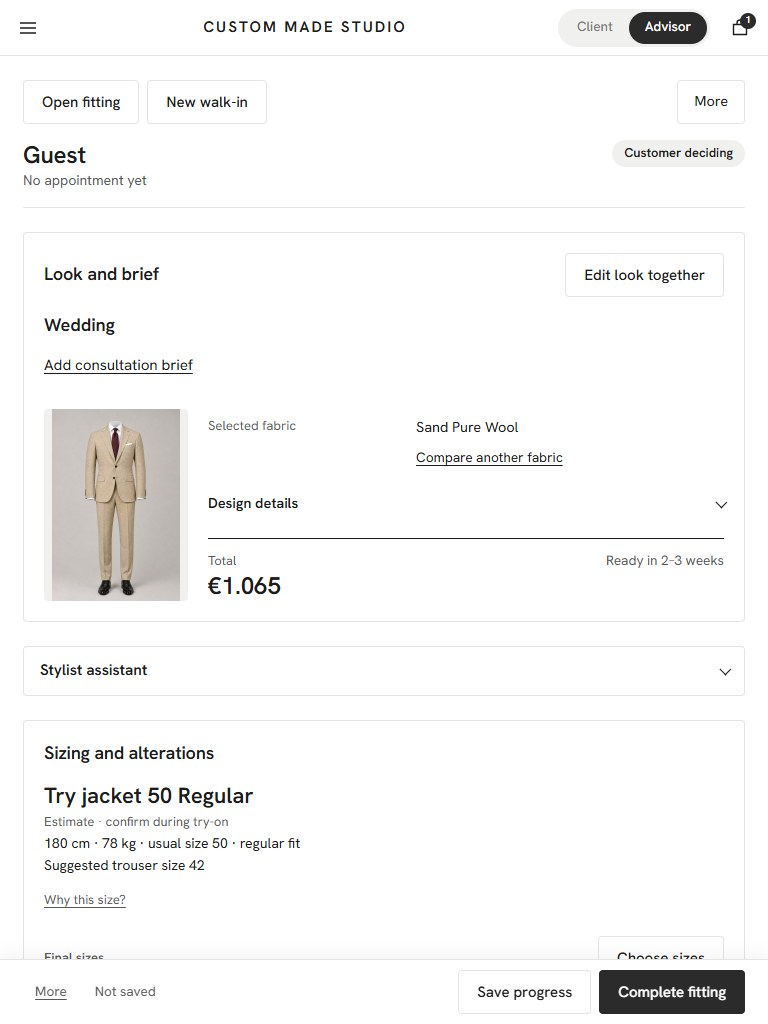
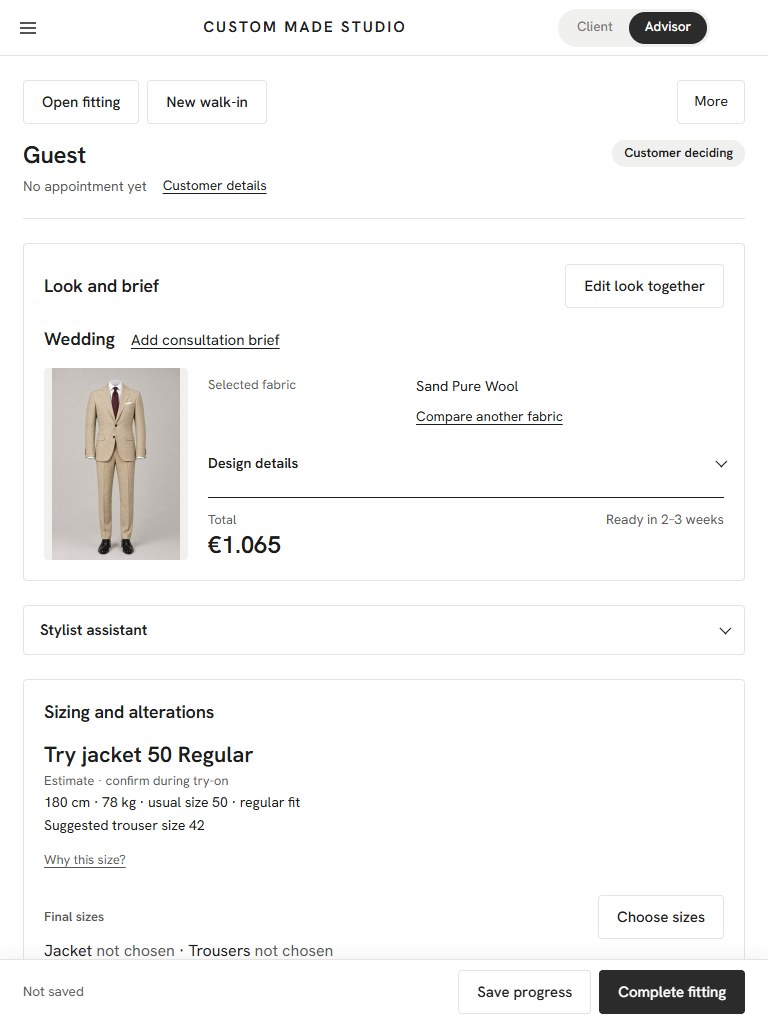
Advisor round 6: print keeps design specs and customer details, Customer details button, fabric panel open/close, single More menu with Email summary, tidier look card; 143 checks

diff --git a/js/app.js b/js/app.js
@@ -989,7 +989,8 @@
       ? '<div class="adv-brief" id="advBrief"><label for="advBriefInput">Consultation brief</label><textarea id="advBriefInput" rows="2" placeholder="What the customer wants, in their words"></textarea></div>'
       : (st.brief || st.reference
         ? '<div class="adv-brief" id="advBrief"><p class="adv-brief-text" id="advBriefText"></p><img id="advReference" hidden alt="Customer’s inspiration photo"></div>'
-        : '<button type="button" class="adv-link adv-noprint" id="advAddBrief">Add consultation brief</button>');
+        : '');
+    var briefBtn = (!advUi.briefEdit && !st.brief && !st.reference) ? '<button type="button" class="adv-link adv-noprint" id="advAddBrief">Add consultation brief</button>' : '';
     box.innerHTML =
       '<div class="adv-ws">' +
       /* one slim toolbar; the forms open only when asked for */
@@ -997,7 +998,7 @@
         '<div class="adv-bar-tools">' +
           '<button type="button" class="btn ghost" id="advLookupToggle" aria-expanded="' + (advUi.lookup ? 'true' : 'false') + '" aria-controls="openFitting">Open fitting</button>' +
           '<button type="button" class="btn ghost" id="advWalkToggle" aria-expanded="false" aria-controls="walkPanel">New walk-in</button>' +
-          '<details class="adv-more" id="advBarMore"><summary class="adv-quiet">More</summary><div class="adv-more-menu"><button type="button" class="adv-quiet" id="advFollowToggle" aria-expanded="false" aria-controls="followPanel"><span id="followCount">Follow-ups</span></button><button type="button" class="adv-quiet adv-mobile-only" id="advPrintTop">Print sheet</button><button type="button" class="adv-quiet adv-mobile-only" id="advCsvTop">Export log</button></div></details>' +
+          '<details class="adv-more" id="advBarMore"><summary class="adv-quiet">More</summary><div class="adv-more-menu"><button type="button" class="adv-quiet" id="advFollowToggle" aria-expanded="false" aria-controls="followPanel"><span id="followCount">Follow-ups</span></button><button type="button" class="adv-quiet" id="advPrint">Print sheet</button><button type="button" class="adv-quiet" id="advEmail">Email summary</button><button type="button" class="adv-quiet" id="advCsv">Export log</button></div></details>' +
         '</div>' +
         '<form id="openFitting" class="adv-open adv-panel"' + (advUi.lookup ? '' : ' hidden') + '><label for="lookupCode">Fitting code</label><input id="lookupCode" type="text" placeholder="CM-XXXXXX" autocomplete="off" autocapitalize="characters" spellcheck="false" maxlength="16"><button type="submit" class="btn">Open fitting</button></form>' +
         '<p id="lookupStatus" class="adv-bar-note" role="status"></p>' +
@@ -1010,24 +1011,25 @@
       '<div class="adv-print-only adv-print-head" id="advPrintHead"></div>' +
       /* the active fitting */
       '<header class="adv-head"><div class="adv-head-main"><h2 class="adv-name">' + escapeName(st.name || 'Guest') + '</h2>' +
-        '<p class="adv-meta"><span>' + escapeName(when) + '</span>' + (st.eventDate ? '<span>Event ' + escapeName(st.eventDate) + '</span>' : '') + (st.code ? '<span class="adv-code">' + st.code + '</span>' : '') + '</p></div>' +
+        '<p class="adv-meta"><span>' + escapeName(when) + '</span>' + (st.eventDate ? '<span>Event ' + escapeName(st.eventDate) + '</span>' : '') + (st.code ? '<span class="adv-code">' + st.code + '</span>' : '') + '<button type="button" class="adv-link adv-noprint" id="advOpenCust">Customer details</button></p></div>' +
         '<div class="adv-head-side"><span class="adv-dirty adv-noprint" id="advDirty" hidden>Unsaved changes</span><span class="adv-state ' + statusClass + '">' + status + '</span></div></header>' +
       '<div class="adv-grid">' +
         '<div class="adv-main">' +
           '<section class="adv-card" id="advLook" aria-labelledby="advLookH">' +
             '<div class="adv-card-head"><h3 id="advLookH">Look and brief</h3><button type="button" class="btn ghost adv-noprint" id="editConsultLook">Edit look together</button></div>' +
             '<div class="adv-look">' +
-              '<p class="adv-occasion">' + escapeName(activeLook().label) + '</p>' +
+              '<div class="adv-look-head"><p class="adv-occasion">' + escapeName(activeLook().label) + '</p>' + briefBtn + '</div>' +
               briefHtml +
               '<div class="adv-summary"><button type="button" class="adv-suit" id="advSuitBtn" aria-label="Enlarge the look photo"><img src="' + shot + '" alt="Selected look: ' + escapeName(c.name) + '"></button>' +
                 '<div class="adv-summary-body">' +
-                  advRows([['Selected fabric', escapeName(c.name) + '<button type="button" class="adv-link adv-noprint adv-compare-link" id="advCompareToggle" aria-expanded="' + (advUi.fabric ? 'true' : 'false') + '" aria-controls="advFabric">Compare another fabric</button>']]) +
-                  '<details class="adv-detail-rows" id="advLookRows"><summary>Design details</summary>' + advRows([dz ? ['Base look', escapeName(dz.name)] : null, ['Style', escapeName(styleText())], ex.length ? ['Extras', escapeName(ex.join(', '))] : null, st.consultBudget ? ['Budget', money(Number(st.consultBudget))] : null]) + '</details>' +
+                  advRows([['Selected fabric', escapeName(c.name) + '<button type="button" class="adv-link adv-noprint adv-compare-link" id="advCompareToggle" aria-expanded="' + (advUi.fabric ? 'true' : 'false') + '" aria-controls="advFabric">' + (advUi.fabric ? 'Hide fabric comparison' : 'Compare another fabric') + '</button>']]) +
+                  '<div class="adv-print-only adv-specs">' + advRows([['Occasion', escapeName(activeLook().label)], dz ? ['Base look', escapeName(dz.name)] : null, ['Style', escapeName(styleText())], ex.length ? ['Extras', escapeName(ex.join(', '))] : null, st.consultBudget ? ['Budget', money(Number(st.consultBudget))] : null]) + '</div>' +
+                  '<details class="adv-detail-rows adv-screen-only" id="advLookRows"><summary>Design details</summary>' + advRows([dz ? ['Base look', escapeName(dz.name)] : null, ['Style', escapeName(styleText())], ex.length ? ['Extras', escapeName(ex.join(', '))] : null, st.consultBudget ? ['Budget', money(Number(st.consultBudget))] : null]) + '</details>' +
                   '<div class="adv-total"><div><span class="adv-total-label">Total</span><b class="adv-total-value">' + money(total()) + '</b></div><span class="adv-delivery">Ready in 2–3 weeks</span></div>' +
                 '</div></div>' +
             '</div>' +
           '</section>' +
-          '<details class="adv-card adv-noprint" id="advFabric"><summary class="adv-fab-summary">Compare fabrics</summary><div class="adv-detail-body">' +
+          '<details class="adv-card adv-noprint" id="advFabric"><summary class="adv-fab-summary">Compare fabrics</summary><div class="adv-detail-body"><div class="adv-fab-head"><h3>Compare fabrics</h3><button type="button" class="btn ghost" id="advFabClose">Close</button></div>' +
             '<div class="adv-search-wrap"><label for="altSearch">Find another fabric</label><div class="alt-search"><input id="altSearch" type="search" role="combobox" aria-expanded="false" aria-controls="altResults" aria-autocomplete="list" placeholder="Type a colour, weave or name" autocomplete="off"><div class="alt-results" id="altResults" role="listbox" aria-label="Matching fabrics" hidden></div></div><div class="chips" id="altKeywords" aria-label="Keywords"></div></div>' +
             '<input type="hidden" id="altCloth">' +
             '<div id="clothPair" class="adv-pair" hidden>' +
@@ -1060,7 +1062,8 @@
               '<p class="adv-field-error" id="advAltError" role="alert"' + (errs.alts ? '' : ' hidden') + '>' + escapeName(errs.alts || '') + '</p>' +
               '<div class="adv-alt-head" aria-hidden="true"><span>Alteration</span><span>Requested</span><span>Agreed</span><span>Status</span></div><div class="adjs" id="advAdjs"></div></div>' +
             '<div class="adv-block"><label for="advNotes" class="adv-label">Workroom notes</label><textarea id="advNotes" placeholder="Shoulders, posture, anything for the workroom"></textarea><div class="adv-print-only" id="advNotesPrint"></div></div>' +
-            '<details class="adv-detail-rows adv-cust" id="advCust"><summary>Customer details</summary>' + custRows + '<div class="adv-contact-block" id="advContact"><h4>Contact</h4>' + contactHtml() + '</div></details>' +
+            '<details class="adv-detail-rows adv-cust adv-screen-only" id="advCust"><summary>Measurements and contact</summary>' + custRows + '<div class="adv-contact-block" id="advContact"><h4>Contact</h4>' + contactHtml() + '</div></details>' +
+            '<div class="adv-print-only adv-print-cust"><h4>Customer details</h4>' + custRows + '<p>' + (st.email || st.phone ? [st.email ? 'Email ' + escapeName(st.email) : '', st.phone ? 'Phone ' + escapeName(st.phone) : ''].filter(Boolean).join(' · ') : 'No contact details') + '</p></div>' +
           '</section>' +
           '<section class="adv-card" id="advOutcome" aria-labelledby="advOutcomeH">' +
             '<h3 id="advOutcomeH">Appointment outcome</h3>' +
@@ -1079,7 +1082,7 @@
           '</div></details>' +
         '</aside>' +
       '</div>' +
-      '<div class="adv-actions adv-noprint"><div class="adv-actions-quiet adv-desktop-only"><details class="adv-more"><summary class="adv-quiet">More</summary><div class="adv-more-menu"><button type="button" class="adv-quiet" id="advPrint">Print sheet</button><button type="button" class="adv-quiet" id="advCsv">Export log</button></div></details></div><div class="adv-status-wrap"><span id="advSaveState" class="adv-save-state"></span><p id="advStatus" class="adv-status-line" role="status" aria-live="polite"></p></div><div class="adv-actions-main"><button type="button" class="btn ghost" id="advDraft">Save progress</button><button type="button" class="btn" id="advSave">Complete fitting</button></div></div>' +
+      '<div class="adv-actions adv-noprint"><div class="adv-status-wrap"><span id="advSaveState" class="adv-save-state"></span><p id="advStatus" class="adv-status-line" role="status" aria-live="polite"></p></div><div class="adv-actions-main"><button type="button" class="btn ghost" id="advDraft">Save progress</button><button type="button" class="btn" id="advSave">Complete fitting</button></div></div>' +
       '</div>';
 
     fill('advSizes', D.sizes.map(function (x) { var b = chip(sizeLabel(x, g), st.finalSize === x, function () { st.finalSize = st.finalSize === x ? null : x; clearErr('jacket'); renderAdvisor(); }); b.id = 'advSize-' + x; return b; }));
@@ -1090,17 +1093,19 @@
     if (st.finalPants) { var psame = st.finalPants === pantsSize(); pcmp.className = 'cmp ' + (psame ? 'ok' : 'diff'); pcmp.textContent = psame ? 'Matches the suggestion.' : 'Differs from the suggestion (' + pantsSize() + ' suggested, ' + st.finalPants + ' final).'; }
     if ($('advWhy')) fill('advWhy', WHY.map(function (w, i) { var b = chip(w, st.why.indexOf(w) > -1, function () { var k = st.why.indexOf(w); if (k > -1) st.why.splice(k, 1); else st.why.push(w); renderAdvisor(); }); b.id = 'advWhy-' + i; return b; }));
     $('advCsv').onclick = exportFitLog;
-    var fab = $('advFabric'); fab.open = !!advUi.fabric; fab.ontoggle = function () { advUi.fabric = fab.open; };
+    var fab = $('advFabric'); fab.open = !!advUi.fabric;
+    function syncCompare() { var cb = $('advCompareToggle'); if (cb) { cb.textContent = fab.open ? 'Hide fabric comparison' : 'Compare another fabric'; cb.setAttribute('aria-expanded', String(fab.open)); } }
+    fab.ontoggle = function () { advUi.fabric = fab.open; syncCompare(); };
     $('advSizeToggle').onclick = function () { advUi.sizes = !advUi.sizes; renderAdvisor(); };
     $('advLookupToggle').onclick = function () { advUi.lookup = !advUi.lookup; renderAdvisor(); if (advUi.lookup) $('lookupCode').focus(); };
-    $('advPrintTop').onclick = function () { window.print(); };
-    $('advCsvTop').onclick = exportFitLog;
     $('walkCancel').onclick = function () { $('advWalkToggle').click(); };
     $('advSuitBtn').onclick = function () { $('advLookDlgImg').src = shot; $('advLookDlg').showModal(); };
     var tabletUp = window.matchMedia('(min-width:768px)'), rows = $('advLookRows'), cust = $('advCust');
     rows.open = !!advUi.lookRows; rows.ontoggle = function () { advUi.lookRows = rows.open; };
     cust.open = advUi.cust == null ? tabletUp.matches : advUi.cust; cust.ontoggle = function () { advUi.cust = cust.open; };
-    $('advCompareToggle').onclick = function () { advUi.fabric = !fab.open; fab.open = advUi.fabric; this.setAttribute('aria-expanded', String(advUi.fabric)); if (advUi.fabric) $('altSearch').focus({ preventScroll: false }); };
+    $('advCompareToggle').onclick = function () { advUi.fabric = !fab.open; fab.open = advUi.fabric; syncCompare(); if (advUi.fabric) { fab.scrollIntoView({ block: 'start', behavior: 'instant' }); $('altSearch').focus({ preventScroll: true }); } };
+    $('advFabClose').onclick = function () { advUi.fabric = false; fab.open = false; syncCompare(); $('advCompareToggle').focus(); };
+    $('advOpenCust').onclick = function () { advUi.cust = true; cust.open = true; cust.scrollIntoView({ block: 'center', behavior: 'instant' }); var f = cust.querySelector('input, a'); if (f) f.focus({ preventScroll: true }); };
     $('advFollowToggle').addEventListener('click', function () { $('advBarMore').open = false; });
     var ns = $('nextStep'); function growNext() { ns.style.height = 'auto'; ns.style.height = Math.max(44, ns.scrollHeight + 2) + 'px'; } ns.addEventListener('input', growNext); setTimeout(growNext, 0);
     if ($('advAddBrief')) $('advAddBrief').onclick = function () { advUi.briefEdit = true; renderAdvisor(); $('advBriefInput').focus(); };
@@ -1143,6 +1148,16 @@
     $('advNotes').value = st.notes || ''; $('advNotesPrint').textContent = st.notes || '';
     $('advNotes').oninput = function () { st.notes = this.value; $('advNotesPrint').textContent = this.value; };
     $('advPrint').onclick = function () { window.print(); };
+    /* opens a draft in the advisor's own mail app: nothing is sent until they press send, and workroom notes stay out */
+    $('advEmail').onclick = function () {
+      $('advBarMore').open = false;
+      var ag = Object.assign({}, st.adj, st.agreed || {}), alts = D.adjustments.filter(function (a) { return ag[a.key]; }).map(function (a) { return a.label + ' ' + (ag[a.key] > 0 ? '+' : '') + ag[a.key] + ' cm'; });
+      var lines = ['Hello' + (st.name ? ' ' + st.name : '') + ',', '', 'Your fitting summary' + (st.code ? ' (' + st.code + ')' : '') + ':', 'Occasion: ' + activeLook().label, 'Fabric: ' + c.name, 'Total: ' + money(total()), 'Jacket size: ' + (st.finalSize ? sizeLabel(st.finalSize, g) : 'to be confirmed'), 'Trouser size: ' + (st.finalPants || 'to be confirmed'), 'Alterations: ' + (alts.length ? alts.join(', ') : 'none agreed yet')];
+      if (st.nextStep) lines.push('Next step: ' + st.nextStep);
+      if (st.followDate) lines.push('Follow-up date: ' + st.followDate);
+      lines.push('', 'Ready in 2 to 3 weeks after the order is confirmed.', '', 'Kind regards', 'Custom Made Studio');
+      window.location.href = 'mailto:' + encodeURIComponent(st.email || '') + '?subject=' + encodeURIComponent('Your fitting summary' + (st.code ? ' ' + st.code : '')) + '&body=' + encodeURIComponent(lines.join('\n'));
+    };
     renderConsultation();
     /* the assistant stays open beside the fitting on wide screens, and folds away on narrow ones */
     var assist = $('advAssist'), wide = window.matchMedia('(min-width:1024px)');

diff --git a/tests/stylist-test.html b/tests/stylist-test.html
@@ -340,6 +340,17 @@
     record('contact', 'sits in Customer details, not as a separate accordion', !!doc.getElementById('advCust').querySelector('#advContact') ? 'inside' : 'outside', !!doc.getElementById('advCust').querySelector('#advContact'));
     record('alteration rows', 'show a status beside the agreed value', doc.querySelector('#advAdjs .adj-state').textContent, /Not reviewed|Confirmed/.test(doc.querySelector('#advAdjs .adj-state').textContent));
 
+    group('Advisor round 6: print specs, customer details, fabric panel, one More menu, email summary');
+    record('print sheet', 'carries the design specifications and customer details even when the screen folds them away', 'print blocks', !!doc.querySelector('.adv-specs') && /Style/.test(doc.querySelector('.adv-specs').textContent) && !!doc.querySelector('.adv-print-cust') && /Customer details/.test(doc.querySelector('.adv-print-cust').textContent));
+    record('customer details', 'a button beside the customer name opens Measurements and contact', doc.getElementById('advOpenCust').textContent, /Customer details/.test(doc.getElementById('advOpenCust').textContent) && /Measurements and contact/.test(doc.getElementById('advCust').textContent));
+    doc.getElementById('advCust').open = false; doc.getElementById('advOpenCust').click(); await w(150);
+    record('open customer details', 'the folded section opens', doc.getElementById('advCust').open ? 'open' : 'closed', doc.getElementById('advCust').open);
+    var fabEl = doc.getElementById('advFabric'); fabEl.open = false; doc.getElementById('advCompareToggle').click(); await w(150);
+    record('fabric panel', 'opens with a Compare fabrics header, Close, and the link says Hide fabric comparison', doc.getElementById('advCompareToggle').textContent, fabEl.open && /Hide fabric comparison/.test(doc.getElementById('advCompareToggle').textContent) && !!doc.getElementById('advFabClose'));
+    doc.getElementById('advFabClose').click(); await w(150);
+    record('Close fabric panel', 'closes it and the link says Compare another fabric again', fabEl.open ? 'open' : 'closed', !fabEl.open && /Compare another fabric/.test(doc.getElementById('advCompareToggle').textContent));
+    record('More menu', 'Print sheet, Email summary and Export log live in the toolbar menu only', doc.querySelectorAll('.adv-more').length + ' menus', doc.querySelectorAll('.adv-more').length === 1 && !!doc.querySelector('#advBarMore #advPrint') && !!doc.querySelector('#advBarMore #advEmail') && !!doc.querySelector('#advBarMore #advCsv'));
+
     group('More Style me requests: new designs and cloths');
     await load();
     var briefs = [

diff --git a/css/style.css b/css/style.css
@@ -1030,3 +1030,32 @@ details.adv-card.adv-fabric,#advFabric{padding:0}
 .adv-bar .adv-more > summary{border:1px solid var(--line);border-radius:var(--r);background:#fff;color:var(--ink);text-decoration:none;padding:0 16px;display:flex;align-items:center;font-size:.9rem}
 .adv-bar .adv-more > summary:hover{border-color:var(--ink)}
 #advAlts .adv-field-error{margin-bottom:8px}
+
+/* ===== round 6 ===== */
+body.adv #bag{display:none}
+.adv-look-head{display:flex;flex-wrap:wrap;align-items:baseline;gap:4px 16px}
+.adv-occasion{margin:0}
+#advAddBrief{margin:0;min-height:32px}
+.adv-look{gap:12px}
+.adv-fab-head{display:flex;justify-content:space-between;align-items:center;min-height:44px;margin-bottom:12px}
+.adv-fab-head h3{margin:0}
+#advFabric{scroll-margin-top:72px}
+#advOpenCust{margin-left:0;font-size:.85rem;min-height:32px}
+.adv-meta{align-items:center}
+.adv-contact-form{grid-template-columns:minmax(0,1fr) minmax(0,1fr);gap:10px 16px;align-items:end}
+.adv-contact-form .adv-empty,.adv-contact-form #contactMsg{grid-column:1/-1}
+.adv-contact-form .btn{grid-column:1/-1;justify-self:start;width:auto;min-height:44px;padding:0 18px}
+@media (max-width:767px){.adv-contact-form{grid-template-columns:minmax(0,1fr)}}
+@media (min-width:1024px){.adv-summary{grid-template-columns:minmax(120px,160px) minmax(0,1fr)}}
+.adv-actions-main{margin-left:auto}
+.adv-ws .adj .adj-state::before{content:none}
+@media (max-width:560px){.adv-ws .adj .adj-state::before{content:none}}
+@media print{
+  .adv-screen-only{display:none!important}
+  .adv-ws{font-size:11pt;line-height:1.35}
+  .adv-summary{grid-template-columns:32mm minmax(0,1fr);gap:8mm;align-items:start}
+  .adv-suit{width:32mm;aspect-ratio:3/4}
+  .adv-specs .adv-row{padding:6pt 0}
+  .adv-print-cust{margin-top:10pt}
+  .adv-print-cust h4{font-size:11pt;margin-bottom:4pt;color:#000}
+}

diff --git a/README.md b/README.md
@@ -51,6 +51,7 @@ The same page has two views, switched at the top right. The customer builds the 
 - **Appointment outcome and saving:** status, next step and follow-up date. A status line beside the buttons always says where things stand: Not saved, Unsaved changes, Saved at 14:32 in this browser, or Save failed. "Complete fitting" needs both final sizes and confirmed alterations; if something is missing the bar says "3 items need attention" (tap it to jump to the first), and a short message appears under each missing item.
 - **Trust in what is on screen:** a walk-in shows "Not provided" for measurements until the customer gives them, and its starting size is labelled provisional. Opening another fitting or starting a walk-in with unsaved changes offers Save and switch, Discard changes or Keep editing. A customer photo opens with View customer photo, and contact details can be added during the appointment.
 - **On a phone:** one slim bottom bar (Save progress, Complete fitting), Print sheet and Export log inside More in the top toolbar, a small suit thumbnail you can tap to enlarge, and alterations stacked so Requested and Agreed both stay visible.
+- **Share with the customer:** More → Email summary opens a draft in the advisor's own mail app (addressed to the customer's email if known) with the look, total, final sizes, agreed alterations and next step. Nothing is sent until the advisor presses send, and internal workroom notes are never included. Print sheet gives a clean page that can also be saved as a PDF.
 - **Printing:** a plain sheet headed with the fitting code and print date, marked DRAFT until the fitting is completed, with unreviewed alterations printed as "Not reviewed".
 - **Stylist assistant:** three shortcuts (Prepare fitting, Lower-priced fabric, Explain cloth) and a question box that sits beside a small Ask button, with the other questions folded away once it has answered. When it suggests another fabric it shows the name, new total and difference with a Compare fabrics button. Ask "What else could we show them?" and it answers with up to three option cards, the strongest first and the rest behind "Show 2 more" (different weaves, within budget, tagged "Shown online" if the customer already saw them), each with its own Compare button. It answers on the device without any cloud service; an optional hosted AI can be connected (see below).
 - **Measure what works:** each saved fitting records suggested against final size, exported as CSV with a version tag for the sizing rules.
